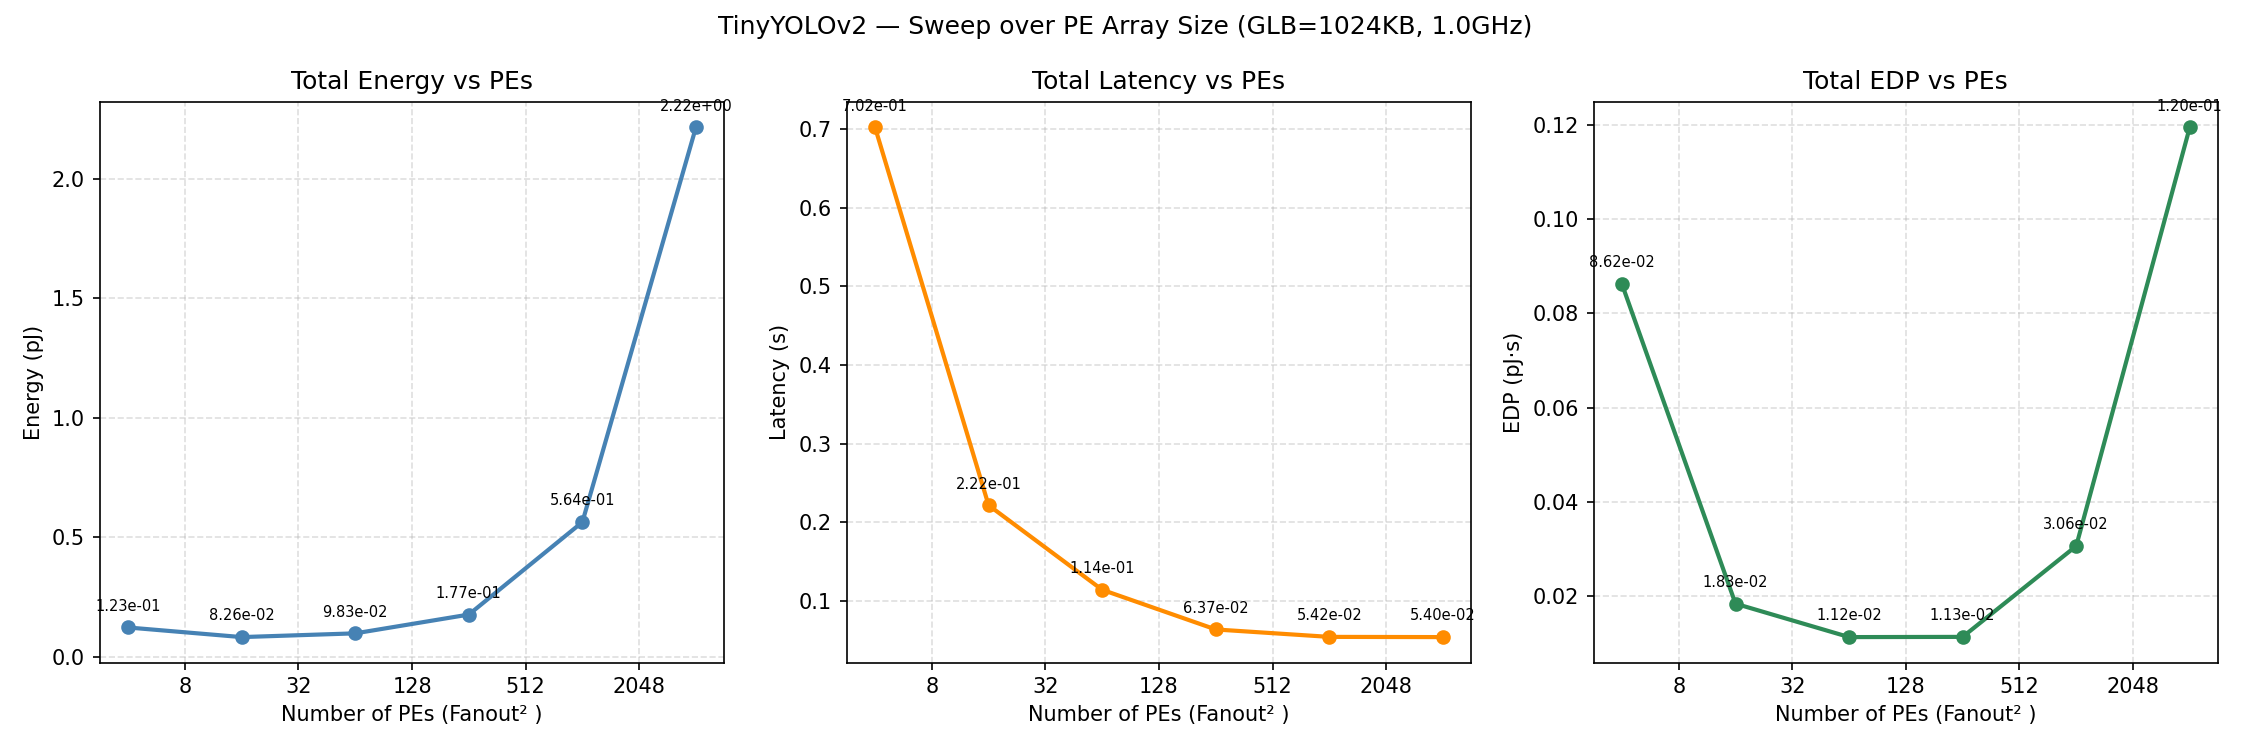
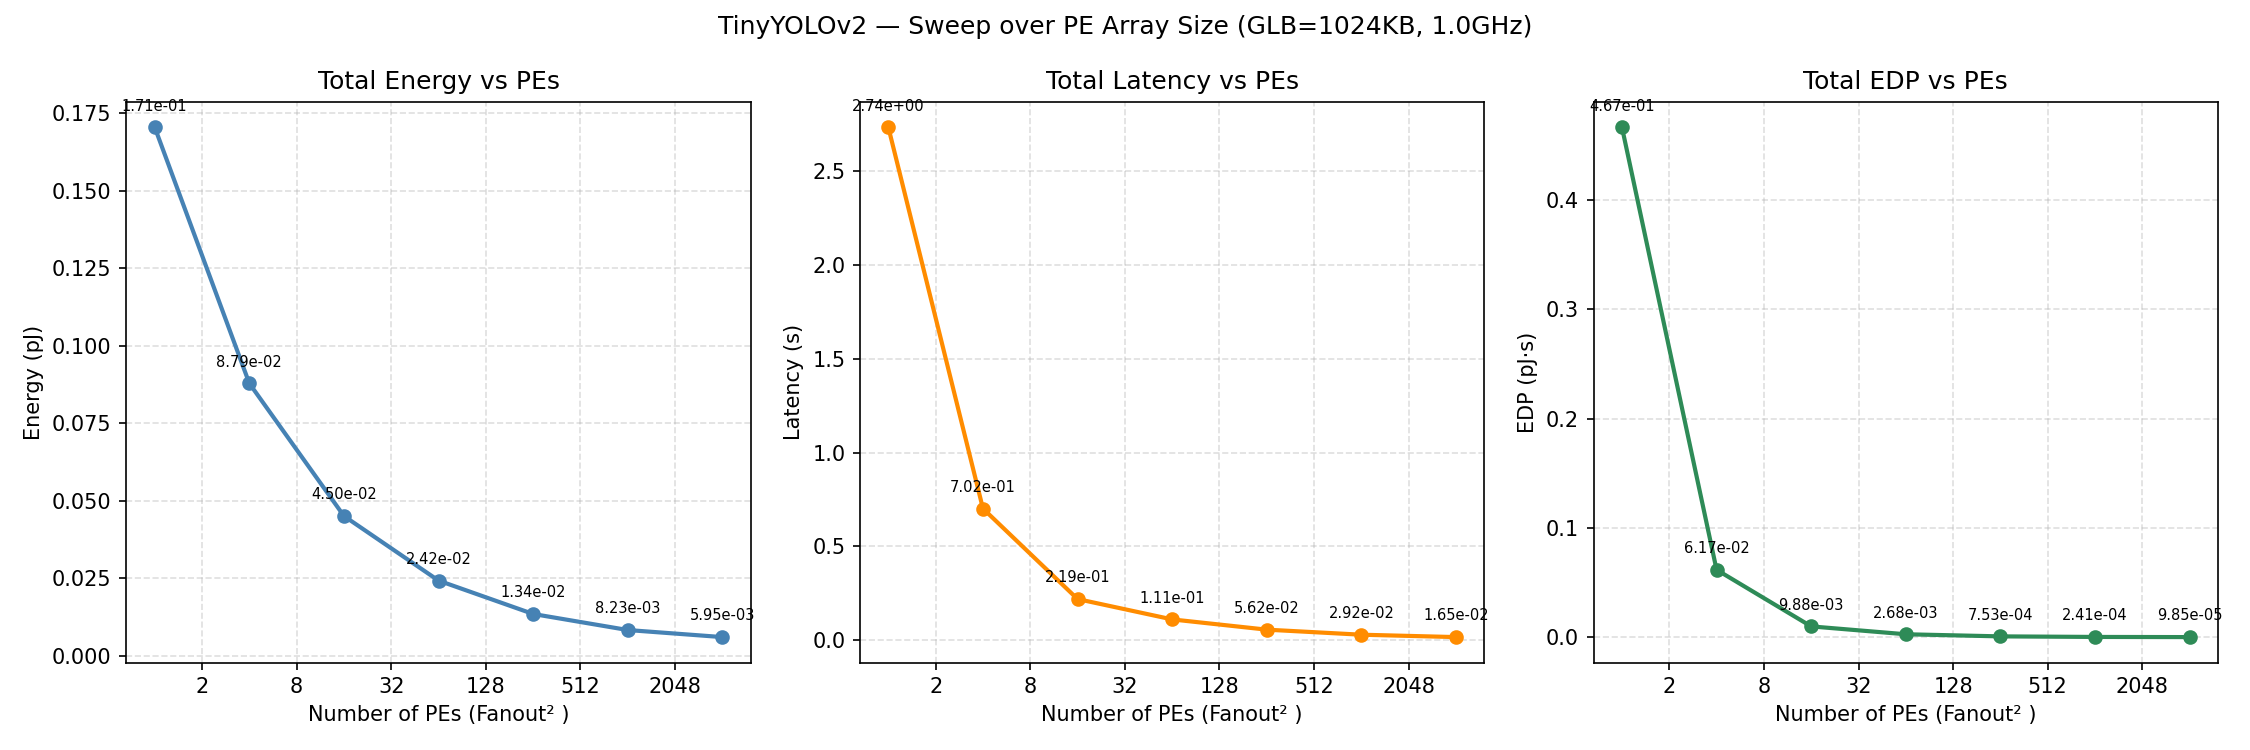
Correct leakage for both reuse and no reuse

diff --git a/new_workspace/scripts/test_mapping.py b/new_workspace/scripts/test_mapping.py
@@ -2,30 +2,32 @@ import accelforge as af
 from pathlib import Path
 import os
 
-# WORKSPACE    = Path(__file__).resolve().parent.parent
-# WORKLOAD_SRC = str(WORKSPACE / "workloads" / "tiny_yolo_test.yaml")
+WORKSPACE    = Path(__file__).resolve().parent.parent
+WORKLOAD_SRC = str(WORKSPACE / "workloads" / "tiny_yolo_test.yaml")
 # ARCH_SRC     = str(WORKSPACE / "arches"    / "custom_accelerator_sweep.yaml")
+ARCH_SRC     = str(WORKSPACE / "arches"    / "custom_accelerator_sweep_NON_IDEAL.yaml")
 
-# spec     = af.Spec.from_yaml(ARCH_SRC, WORKLOAD_SRC,
-#                               jinja_parse_data={"GLB_KB"   :1024,
-#                                                 "FREQ_GHZ" : 1.0,
-#                                                 "FANOUT_X" : 64,
-#                                                 "FANOUT_Y" : 64,})
-# mappings = spec.map_workload_to_arch()
+spec     = af.Spec.from_yaml(ARCH_SRC, WORKLOAD_SRC,
+                              jinja_parse_data={"GLB_KB"   :1024,
+                                                "FREQ_GHZ" : 1.0,
+                                                "FANOUT_X" : 64,
+                                                "FANOUT_Y" : 64,})
+mappings = spec.map_workload_to_arch()
+print(spec.arch)
 # print(mappings.data.columns.tolist())
 # print(mappings)
 
 
 # print(dir(af))
 # List available component models
-print("simba")
-with open("/Users/kreyesp/Desktop/6.5930/Final Project/Edge-Compute-Accelerator/.venv/lib/python3.13/site-packages/examples/arches/simba.yaml") as f:
-    print(f.read())
+# print("simba")
+# with open("/Users/kreyesp/Desktop/6.5930/Final Project/Edge-Compute-Accelerator/.venv/lib/python3.13/site-packages/examples/arches/simba.yaml") as f:
+#     print(f.read())
 
-print("eyeriss")
-with open("/Users/kreyesp/Desktop/6.5930/Final Project/Edge-Compute-Accelerator/.venv/lib/python3.13/site-packages/examples/arches/eyeriss.yaml") as f:
-    print(f.read())
+# print("eyeriss")
+# with open("/Users/kreyesp/Desktop/6.5930/Final Project/Edge-Compute-Accelerator/.venv/lib/python3.13/site-packages/examples/arches/eyeriss.yaml") as f:
+#     print(f.read())
 
-print("component annotated")
-with open("/Users/kreyesp/Desktop/6.5930/Final Project/Edge-Compute-Accelerator/.venv/lib/python3.13/site-packages/examples/misc/component_annotated.yaml") as f:
-    print(f.read())
+# print("component annotated")
+# with open("/Users/kreyesp/Desktop/6.5930/Final Project/Edge-Compute-Accelerator/.venv/lib/python3.13/site-packages/examples/misc/component_annotated.yaml") as f:
+#     print(f.read())

diff --git a/new_workspace/scripts/sweep_fanout.py b/new_workspace/scripts/sweep_fanout.py
@@ -6,9 +6,12 @@ import matplotlib.ticker as ticker
 WORKSPACE    = Path(__file__).resolve().parent.parent
 WORKLOAD_SRC = str(WORKSPACE / "workloads" / "tiny_yolo_test.yaml")
 ARCH_SRC     = str(WORKSPACE / "arches"    / "custom_accelerator_sweep_NON_IDEAL.yaml")
+# WORKLOAD_SRC = str(WORKSPACE / "workloads" / "tiny_yolo_test_no_reuse.yaml")
+# ARCH_SRC     = str(WORKSPACE / "arches"    / "accelerator_sweep_no_reuse.yaml")
 
 LAYERS   = ["L1", "L2", "L3", "L4", "L5", "L6", "L7", "L8", "L9"]
 FANOUTS  = [1, 2, 4, 8, 16, 32, 64]
+# FANOUTS  = [1, 4, 16, 64]
 FREQ_GHZ = 1.0
 GLB_KB   = 1024
 
